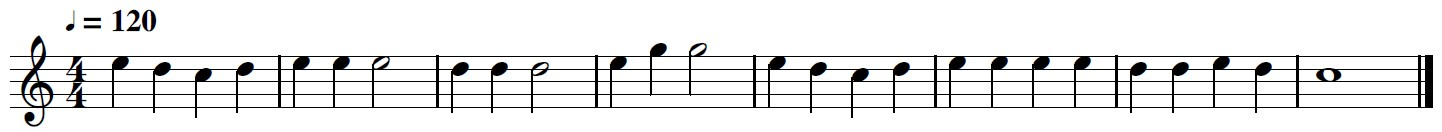
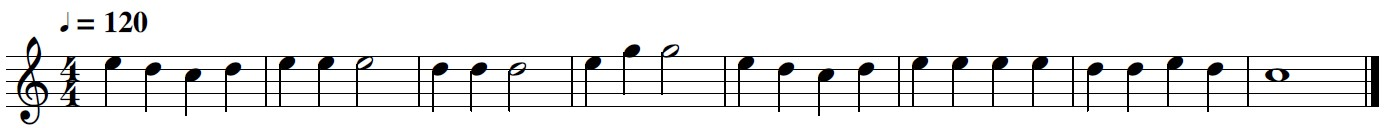
Changed treble clef template, updated song images

Changed region(s): [[0.0, 0.2812, 1.0, 0.9688], [0.0309, 0.0625, 0.1237, 0.2812]]

diff --git a/main.py b/main.py
@@ -17,9 +17,18 @@ def playHardCoded():
     for i in range(len(notes)):
         player.play_note(notes[i], spb * durations[i])
 
+def createTemplate():
+    bgr = cv2.imread('mySimpleSong1.jpg')
+    gray_img = cv2.cvtColor(bgr,cv2.COLOR_BGR2GRAY)
+    gray_img = gray_img[33:-1,15:60]
+    cv2.imshow("Gray",gray_img)
+    cv2.waitKey()
+    cv2.imwrite("Treble2.png",gray_img)
+
 
 # Press the green button in the gutter to run the script.
 if __name__ == '__main__':
-        playHardCoded()
+    #playHardCoded()
+    createTemplate()
 
 # See PyCharm help at https://www.jetbrains.com/help/pycharm/

diff --git a/clefFind.py b/clefFind.py
@@ -2,7 +2,7 @@ import cv2
 import numpy as np
 
 def clefFind(img):
-    tempT = cv2.imread('Treble.png')
+    tempT = cv2.imread('Treble2.png')
     tempT = cv2.cvtColor(tempT, cv2.COLOR_BGR2GRAY)
     _, tempT = cv2.threshold(tempT, 200, 255, cv2.THRESH_BINARY_INV)
 
@@ -15,9 +15,9 @@ def clefFind(img):
     bassFind = cv2.matchTemplate(img,tempB,cv2.TM_CCOEFF_NORMED)
     hitB = np.amax(bassFind)
 
-    if hitT > 0.85:
+    if hitT > 0.7:
         return "Treble"
-    elif hitB > 0.85:
+    elif hitB > 0.7:
         return "Bass"
     else:
         return "Clef Not Found"

diff --git a/test1.py b/test1.py
@@ -3,7 +3,7 @@ import numpy as np
 import math
 from clefFind import *
 
-img = cv2.imread('Tm1.png')
+img = cv2.imread('mySimpleSong3.jpg')
 
 imgGr = cv2.cvtColor(img,cv2.COLOR_BGR2GRAY)
 image_width = img.shape[1]
